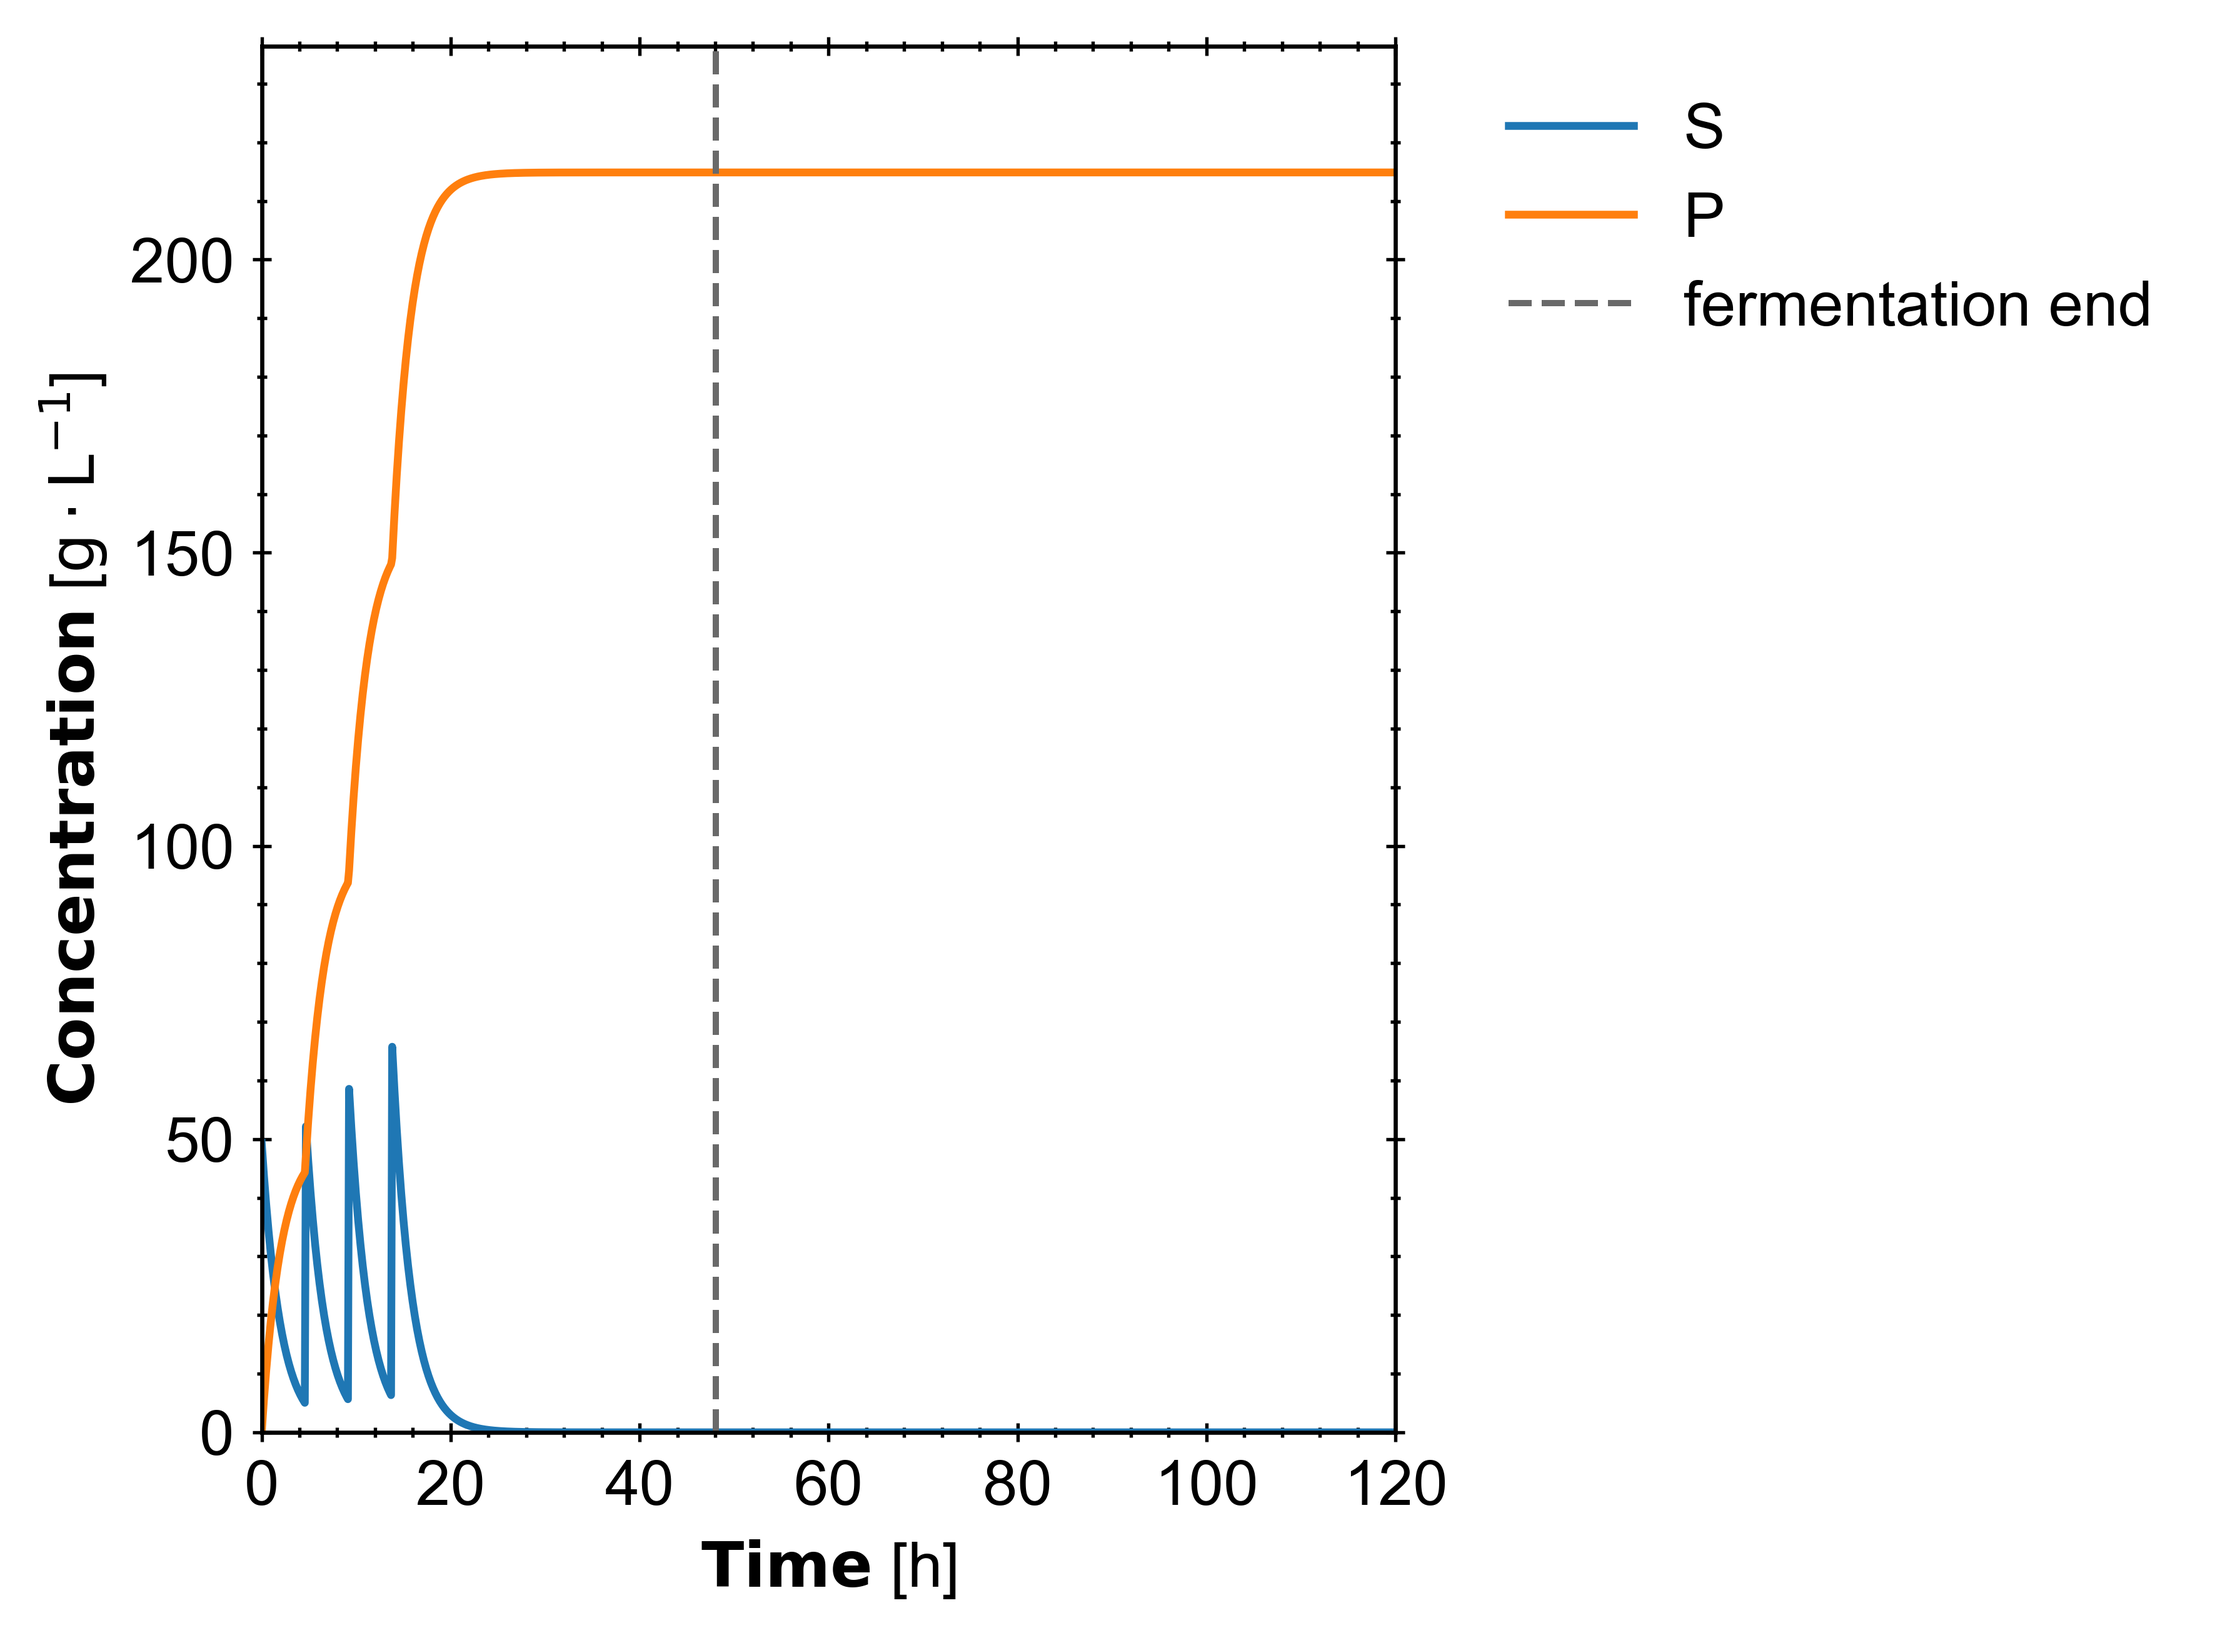
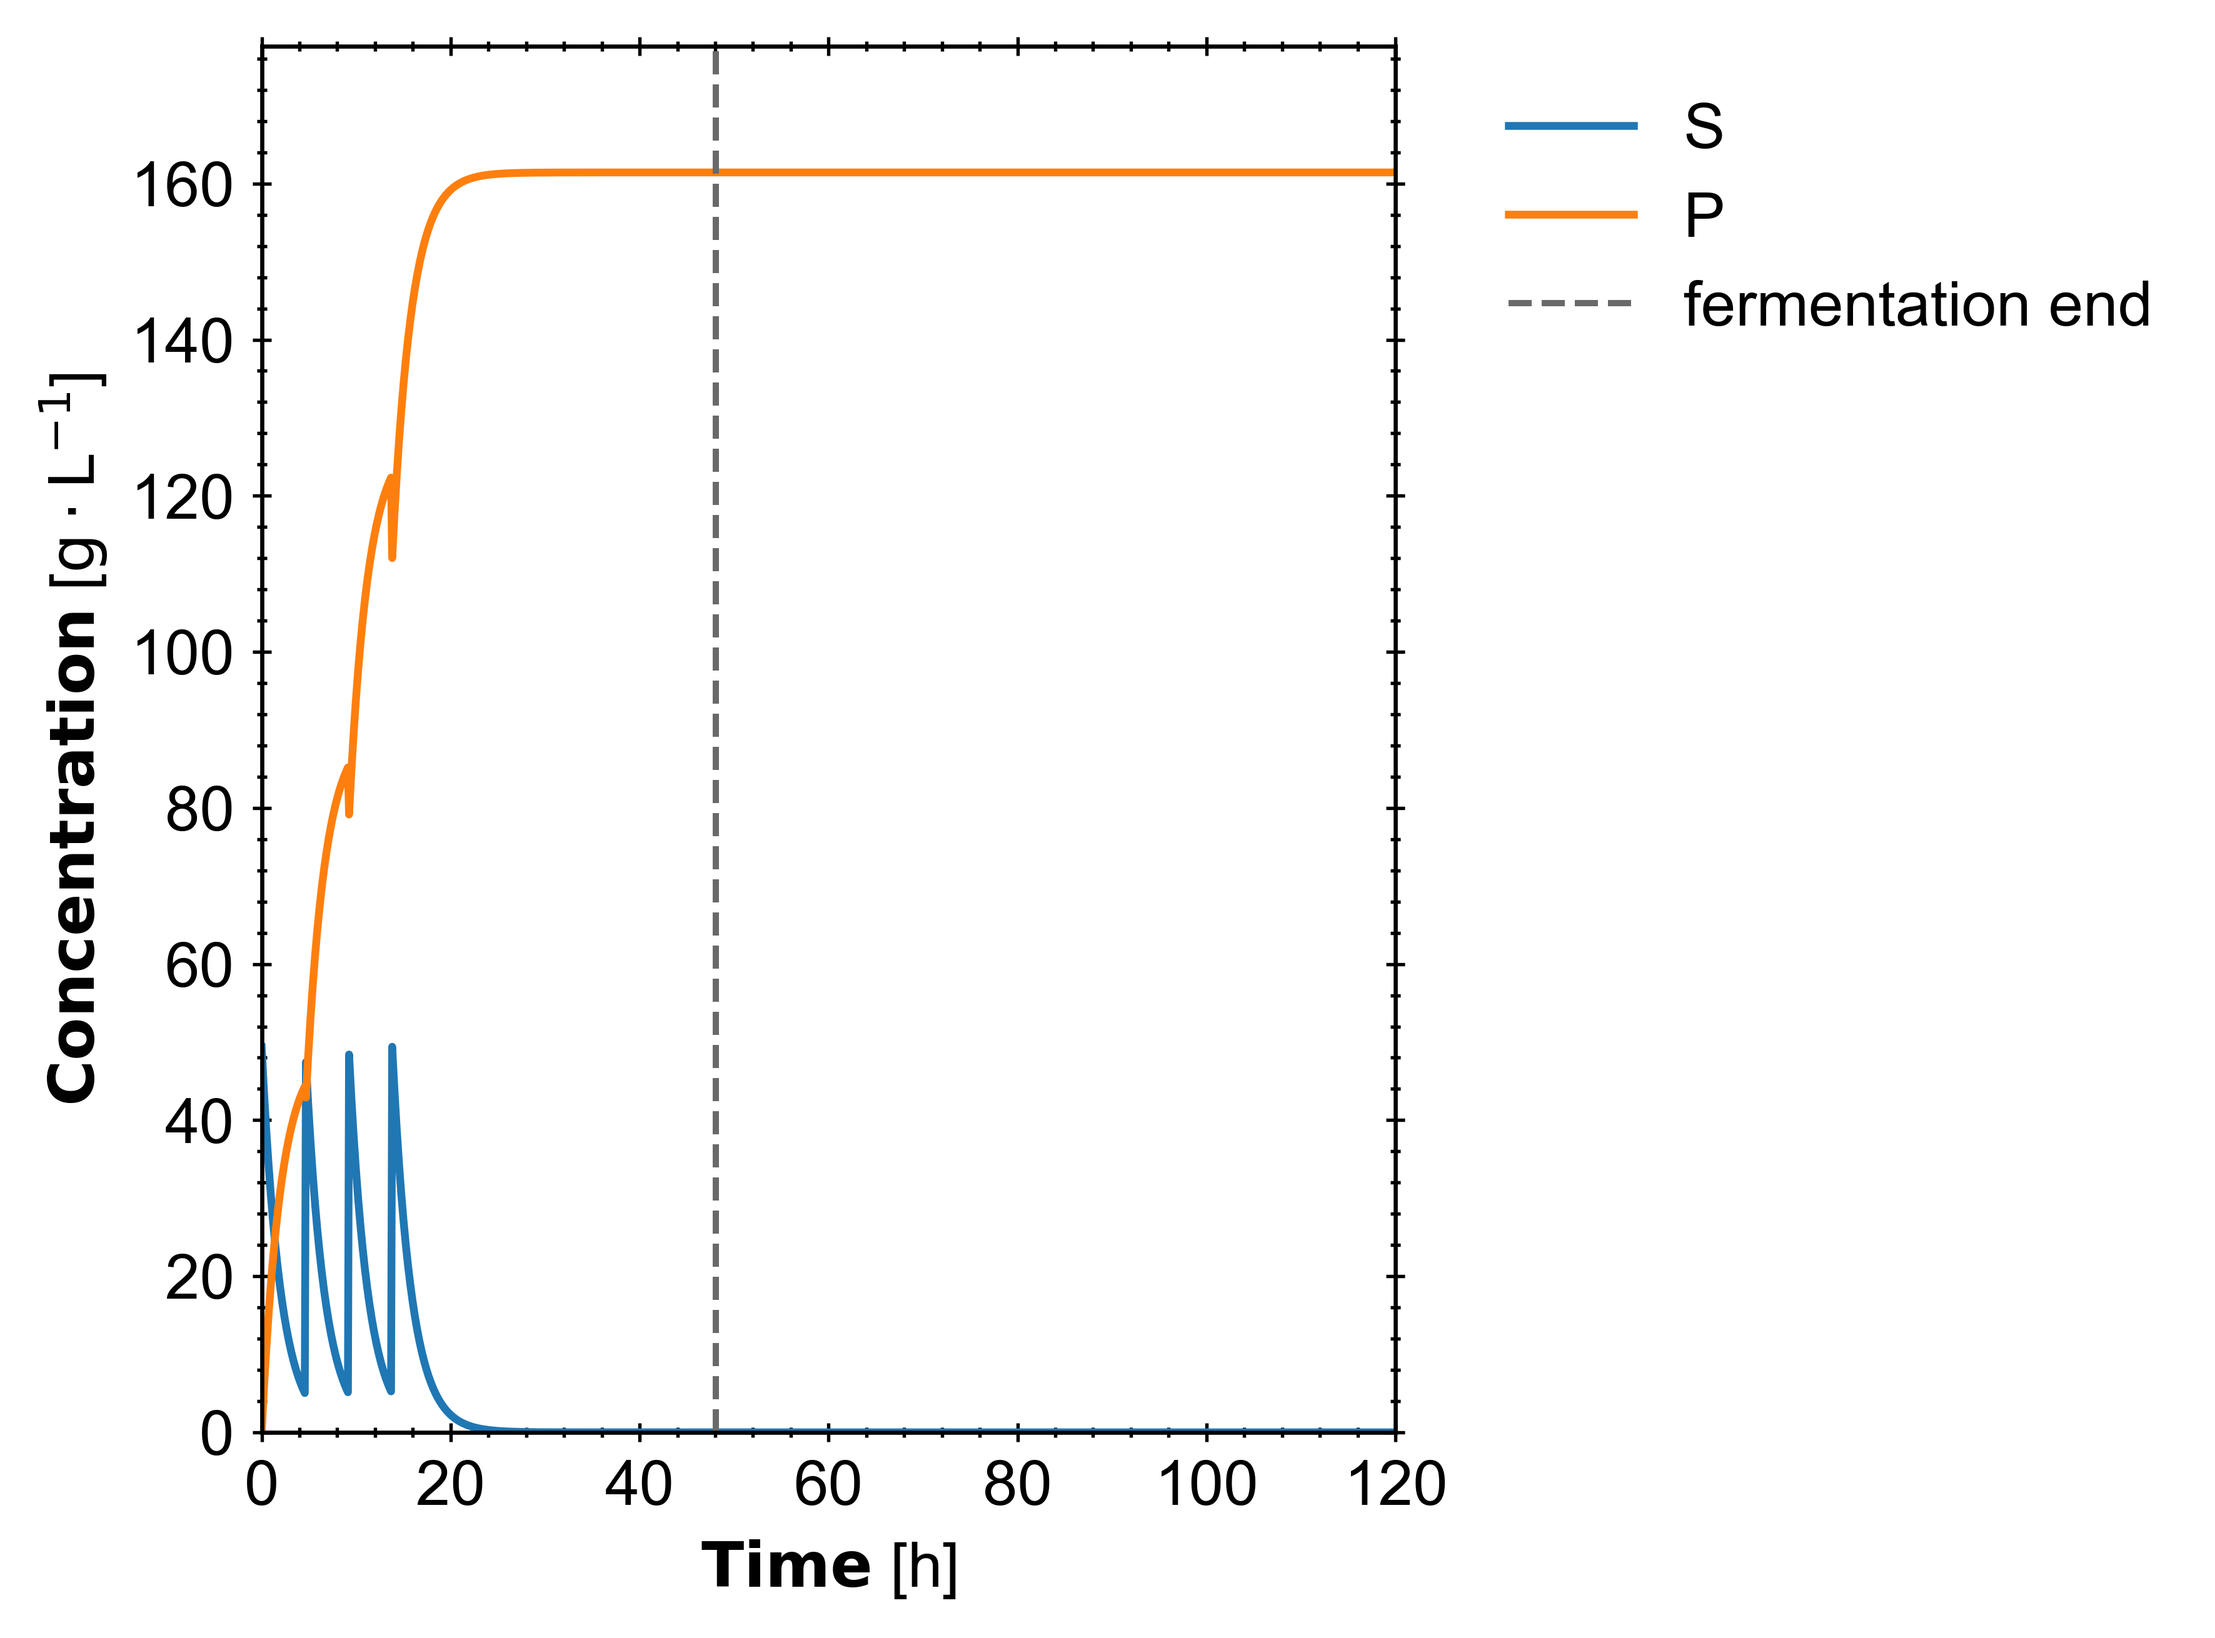
docs: plot tutorial 06 in concentrations ([S]/[P]) not amounts
The generic batch-reactor figure plotted variables=['S','P'], i.e. species
amounts. In a fed-batch run each FeedSpike enlarges the working volume, so
the amount trace climbed with every spike (peaks ~55, ~60, ~66) even though
the spike resets the *concentration* back to the same target — making the
constant threshold/target look like they were rising over time.

Record the bracketed concentration selections via track_vars=['[S]','[P]']
and plot those, so [S] snaps back to the fixed target at each spike and [P]
shows its true concentration (~161 g/L). Switch the printed at-tau
diagnostics to concentrations to match the figure (effluent mass and
installed cost are unchanged — they still derive from the amount-based
map_species_to_chemicals). Regenerate the figure and keep the
generic_batch_reactor_demo example in parity.

Changed region(s): [[0.0621, 0.309, 0.1863, 0.8653], [0.0621, 0.2781, 0.1242, 0.4327], [0.0621, 0.0927, 0.1242, 0.2163]]

diff --git a/nskinetics/examples/generic_batch_reactor_demo.py b/nskinetics/examples/generic_batch_reactor_demo.py
@@ -60,6 +60,7 @@ def build_demo_reactor():
         'R_demo', ins=(feed, seed, spike_feed), outs=('vent', 'effluent'),
         kinetic_reaction_system=te_r,
         map_species_to_chemicals={'S': 'Glucose', 'P': 'Ethanol'},
+        track_vars=['[S]', '[P]'],  # record concentrations for plotting
         tau=48., tau_max=120., volume_var='curr_env',
         feed_volume_added_var='tot_vol',  # exercise the fed-batch volume correction
         spike_feed_index=2, V=100.)
@@ -86,7 +87,7 @@ if __name__ == '__main__':
     effluent = reactor.outs[1]
     print('Built and simulated NSKBatchReactor:', reactor.ID)
     print(f'  selected tau     : {reactor.tau:.3g} h')
-    print(f'  substrate [S]    : {d["S"]:.3g} g/L  ->  product [P]: {d["P"]:.3g} g/L')
+    print(f'  substrate [S]    : {d["[S]"]:.3g} g/L  ->  product [P]: {d["[P]"]:.3g} g/L')
     print(f'  fed-batch spikes : {int(round(te_r.get_value("n_spk")))}')
     print(f'  effluent Ethanol : {effluent.imass["Ethanol"]:.3g} kg/hr')
     print(f'  installed cost   : ${reactor.installed_cost:,.0f}')

diff --git a/docs/source/tutorial/06_process_tea_bridge.rst b/docs/source/tutorial/06_process_tea_bridge.rst
@@ -62,6 +62,7 @@ is fully runnable on its own:
        'R_demo', ins=(feed, seed, spike_feed), outs=('vent', 'effluent'),
        kinetic_reaction_system=te_r,
        map_species_to_chemicals={'S': 'Glucose', 'P': 'Ethanol'},
+       track_vars=['[S]', '[P]'],
        tau=48., tau_max=120., volume_var='curr_env',
        feed_volume_added_var='tot_vol',
        spike_feed_index=2, V=100.)
@@ -100,6 +101,14 @@ The bridge-specific keyword arguments
 - ``spike_feed_index`` — the index into ``ins`` (here, ``2`` →
   ``spike_feed``) of the stream that supplies spike-feed composition/cost,
   excluded from the initial reactor charge so it is not double-counted.
+- ``track_vars`` — extra model selections to record as result columns beyond
+  those the reactor needs internally. The ``map_species_to_chemicals`` keys
+  (``'S'``, ``'P'``) record species *amounts* (what the effluent mass is built
+  from); adding the bracketed ``'[S]'`` / ``'[P]'`` selections here also records
+  the corresponding *concentrations*, so the plot below can show concentration
+  rather than amount. The distinction matters in a fed-batch run: each
+  ``FeedSpike`` enlarges the working volume, so an amount trace keeps climbing
+  even though the spike resets the *concentration* back to the same target.
 
 Simulating and reading results
 ----------------------------------
@@ -121,7 +130,7 @@ adds no costs itself, so the only effect is a benign, expected
    effluent = reactor.outs[1]
    print('Built and simulated NSKBatchReactor:', reactor.ID)
    print(f'  selected tau     : {reactor.tau:.3g} h')
-   print(f'  substrate [S]    : {d["S"]:.3g} g/L  ->  product [P]: {d["P"]:.3g} g/L')
+   print(f'  substrate [S]    : {d["[S]"]:.3g} g/L  ->  product [P]: {d["[P]"]:.3g} g/L')
    print(f'  fed-batch spikes : {int(round(te_r.get_value("n_spk")))}')
    print(f'  effluent Ethanol : {effluent.imass["Ethanol"]:.3g} kg/hr')
    print(f'  installed cost   : ${reactor.installed_cost:,.0f}')
@@ -133,7 +142,7 @@ prints:
 
    Built and simulated NSKBatchReactor: R_demo
      selected tau     : 48 h
-     substrate [S]    : 2.42e-06 g/L  ->  product [P]: 215 g/L
+     substrate [S]    : 1.82e-06 g/L  ->  product [P]: 161 g/L
      fed-batch spikes : 3
      effluent Ethanol : 290 kg/hr
      installed cost   : $598,662
@@ -141,8 +150,8 @@ prints:
 ``reactor.tau`` (``48`` h) is the reaction time read back off the reactor —
 matching the ``tau=48.`` requested since no ``tau_update_policy`` overrode
 it. ``reactor.nsk_results_specific_tau_dict`` holds the kinetic model's state
-*at that tau*: substrate ``S`` essentially fully consumed (``2.42e-06`` g/L)
-and product ``P`` accumulated to ``215`` g/L. ``fed-batch spikes: 3`` shows
+*at that tau*: substrate ``S`` essentially fully consumed (``1.82e-06`` g/L)
+and product ``P`` accumulated to ``161`` g/L. ``fed-batch spikes: 3`` shows
 the ``FeedSpike`` hit its ``n_max=3`` cap over the 48 h window — the same
 threshold/target/feed_conc mechanics from :doc:`04_fed_batch_feeding`,
 just driving a real biosteam effluent this time. ``reactor.installed_cost``
@@ -155,13 +164,14 @@ fermentation-end (``tau``) time on the kinetic trajectory:
 
 .. code-block:: python
 
-   reactor.plot_simulation_results(variables=['S', 'P'], labels=['S', 'P'])
+   reactor.plot_simulation_results(variables=['[S]', '[P]'], labels=['S', 'P'])
 
 .. figure:: /_static/images/examples/tutorial_06_process_tea_bridge.png
    :width: 400
 
-   Substrate ``S`` is consumed to product ``P``; the dashed line marks the
-   selected fermentation-end time ``tau`` (48 h). When an
+   Substrate ``S`` is consumed to product ``P`` (concentrations, ``[S]`` and
+   ``[P]``); each ``FeedSpike`` resets ``[S]`` to the same target, and the
+   dashed line marks the selected fermentation-end time ``tau`` (48 h). When an
    :class:`~nskinetics.units.AerationSpec` is configured (as in
    :class:`~nskinetics.units.NSKFermentation`), the aeration-end time is
    marked too.
